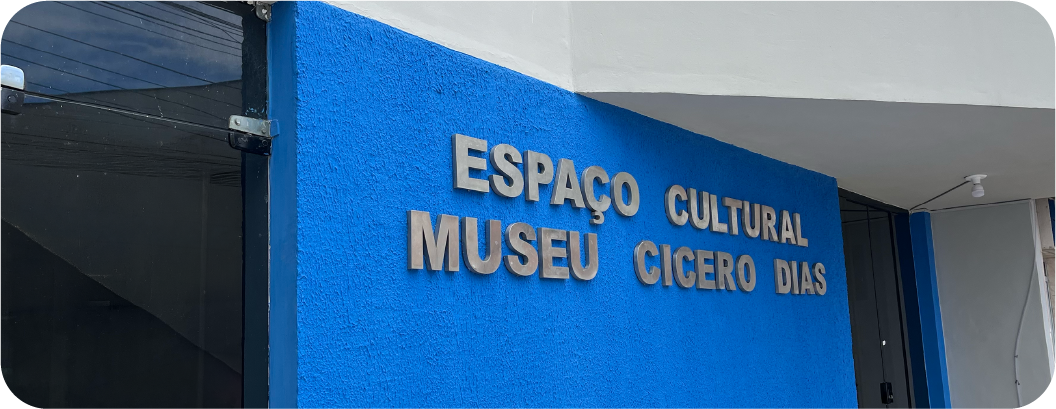
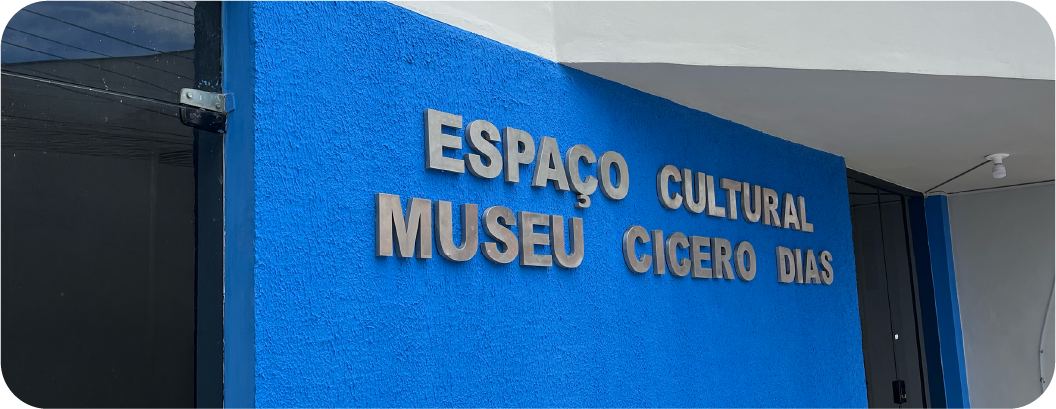
update: img2

diff --git a/styles/descanso.css b/styles/descanso.css
@@ -88,7 +88,7 @@ body {
 
 /* Texto "Espaço Cultural" */
 .subtitulo-topo {
-    color: #fff;
+    color: #ede7e1;
     font-size: 1.8rem;
     font-weight: 200;
     margin-bottom: 0.5rem;
@@ -101,7 +101,7 @@ body {
     font-family: 'Literata', serif;
     font-size: 7rem; 
     font-weight: 400; /* Regular */
-    color: #fff;
+    color: #ede7e1;
     
     /* 1. Ativa o desenho de Display (alto contraste entre traços grossos/finos) */
     font-optical-sizing: auto;
@@ -123,7 +123,7 @@ body {
 /* Botão "Conheça nossa história" com a Seta */
 /* Botão "Conheça nossa história" */
 .btn-fake {
-    color: #fff;
+    color: #ede7e1;
     font-size: 1.2rem;
     font-weight: 300;
     text-transform: none; 

diff --git a/styles/sobreOmuseu.css b/styles/sobreOmuseu.css
@@ -100,7 +100,7 @@ html, body {
     backdrop-filter: blur(5px);
     -webkit-backdrop-filter: blur(5px);
 
-    color: white;
+    color: #ede7e1;
     display: flex;
     flex-direction: column;
     align-items: center;
@@ -130,7 +130,7 @@ html, body {
     flex-shrink: 0; 
 }
 .sidebar-footer p {
-    color: #ffffff;
+    color: #ede7e1;
     font-size: 0.8rem;
     line-height: 1.4;
     font-weight: 300;
@@ -138,7 +138,7 @@ html, body {
 }
 
 .sidebar-footer strong {
-    color: #ffffff;
+    color: #ede7e1;
     font-weight: 700;
 }
 
